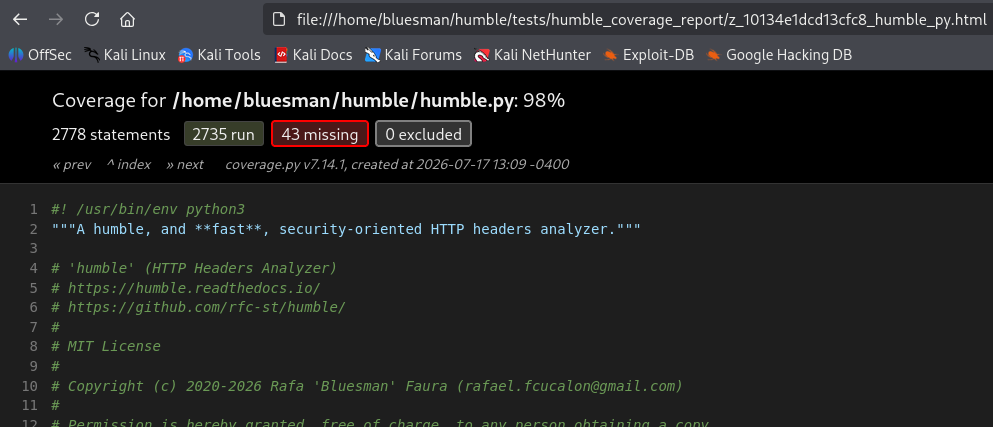
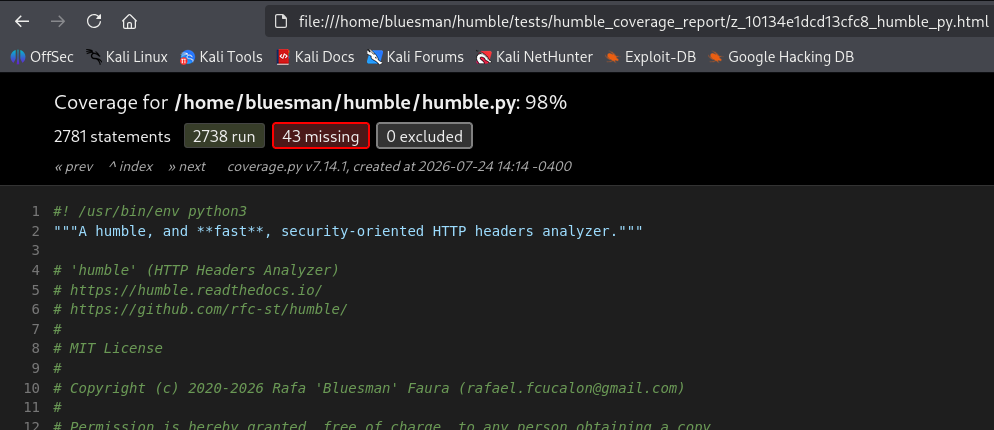
Feature: Allow multiple output formats
https://github.com/rfc-st/humble/issues/41

'-o' options now accepts several space-separated formats (e.g. '-o html xml').

diff --git a/humble.py b/humble.py
@@ -79,7 +79,7 @@ cloudflare.com/support/troubleshooting/http-status-codes/cloudflare-5xx-errors\
 Reference/Status/", "https://raw.githubusercontent.com/rfc-st/humble/master/\
 humble.py", "https://github.com/rfc-st/humble")
 current_time = datetime.now().astimezone().strftime("%Y/%m/%d - %H:%M:%S")
-local_version = date.fromisoformat("2026-07-18")
+local_version = date.fromisoformat("2026-07-24")
 BANNER_VERSION = f"{URL_LIST[4]} | v.{local_version}"
 
 # Files, path resolution and system directories
@@ -166,6 +166,7 @@ DTD_CONTENT = """<!ELEMENT analysis (section+)>
 <!ATTLIST item name CDATA #IMPLIED>
 """
 EXPORT_EXTENSIONS = (".csv", ".html", ".json", ".pdf", ".txt", ".xlsx", ".xml")
+EXPORT_ORDER = ("txt", "csv", "json", "xlsx", "xml", "html", "pdf")
 GRADE_ORDER = ["E", "D", "C", "B", "A", "A+"]
 HTML_PRE_ARTIFACT = "<pre>/pre>'"
 HTML_TAGS = (
@@ -204,7 +205,7 @@ HTTP_SCHEMES = ("http:", "https:")
 HTTP_SCHEMES_S = ("http", "https")
 LENGTH_BOUNDS = (5, 7, 16, 32, 102, 2)
 SECONDS_BOUNDS = (86400, 31536000)
-SLICE_INT = (30, 43, 25, 24, -4, -5, 46, 31, 6, 21, 10, 4, 20)
+SLICE_INT = (30, 43, 25, 24, -4, -5, 46, 31, 6, 21, 10, 4, 21)
 STYLE = (
     Style.BRIGHT, f"{Style.BRIGHT}{Fore.RED}", Fore.CYAN, Style.NORMAL,
     Style.RESET_ALL, Fore.RESET, "(humble_pdf_style)",
@@ -1537,8 +1538,11 @@ def print_export_path(filename, reliable, *, export_all=False):
         return
     export_path = Path(filename).resolve()
     if export_all:
-        all_reports = print_detail_s("[all_reports]").lstrip()
-        msg = f"{all_reports} '{export_path.parent}'."
+        detail_id = ("[all_formats]"
+                     if len(args.output) == len(EXPORT_ORDER)
+                     else "[requested_formats]")
+        bulk_reports = print_detail_s(detail_id).lstrip()
+        msg = f"{bulk_reports} '{export_path.parent}'."
     else:
         single_report = print_detail_s("[report]").lstrip()
         msg = f"{single_report} '{export_path}'."
@@ -1571,7 +1575,7 @@ def print_general_info(reliable, export_filename, headers_skipped, skip_set):
     if not args.output:
         delete_lines(reliable=False) if reliable else delete_lines()
         print(f"\n{BANNER}\n ({BANNER_VERSION})")
-    elif args.output != "pdf":
+    elif single_output() != "pdf":
         humble_desc = get_detail("[humble_desc]", replace=True)
         print(f"\n\n{humble_desc}\n{BANNER_VERSION}\n")
     print_basic_info(export_filename)
@@ -1614,7 +1618,8 @@ def print_basic_info(export_filename):
     Date, time, URL, response details, User-Agent (`-ua` option), input
     file (`-if` option) and exported filename (`-o` option).
     """
-    print(end="\n\n" if args.output in ("html", "pdf", None) else "")
+    print(end="\n\n" if single_output() in ("html", "pdf")
+      or args.output is None else "")
     print_detail_r("[0section]")
     print_detail_l("[analysis_date]")
     print(f" {current_time}")
@@ -1681,7 +1686,7 @@ def print_response_headers():
         print_nosec_headers(enabled=False)
         print("\n")
         return
-    pdf_style = STYLE[6] if args.output == "pdf" else ""
+    pdf_style = STYLE[6] if single_output() == "pdf" else ""
     for key, value in sorted(headers.items()):
         print(f" {pdf_style}{key}:", value) if args.output else \
             print(f" {STYLE[2]}{key}:", value)
@@ -1898,7 +1903,7 @@ def print_enabled_headers(args, exp_s, header, headers_d):
 
     Source: `additional/security.txt`.
     """
-    prefix = STYLE[8] if args.output in ("html", "pdf") else ""
+    prefix = STYLE[8] if single_output() in ("html", "pdf") else ""
     header_display = f"{prefix}{exp_s}{header}"
     if not args.output:
         header_display = f"{STYLE[7]}{header_display}{STYLE[5]}"[18:]
@@ -2009,7 +2014,7 @@ def print_browser_compatibility(compat_headers):
     ??? note
         References provided by [Can I use](https://caniuse.com/){:target="_blank"}.
     """
-    style_blanks = "  " if args.output == "html" else " "
+    style_blanks = "  " if single_output() == "html" else " "
     for key in compat_headers:
         styled_header = key if args.output else f"{STYLE[2]}{key}{STYLE[5]}"
         csp_key = "contentsecuritypolicy2" if key == "Content-Security-Policy"\
@@ -2225,38 +2230,53 @@ def print_unsupported_headers(unsupported_headers):
 
 
 def check_export_scope():
-    """Determine the scope of the export process based on the `-o` option.
+    """Dispatch the export according to the number of requested formats.
 
-    If the value of that option is not `all` (e.g., `csv`), it proceeds to
-    export the analysis in that format; otherwise, it exports it to all
-    supported formats and terminate execution.
+    A single format uses the direct exporters; several formats reuse
+    the batch pipeline, processed in `EXPORT_ORDER`.
     """
-    if args.output != "all":
+    if single_output():
         check_output_format(final_filename, reliable, tmp_filename)
     else:
-        export_all_formats(final_filename, tmp_filename)
+        export_selected_formats(final_filename, tmp_filename)
 
 
-def export_all_formats(final_filename, tmp_filename):
-    """Export the analysis to all supported formats.
+def export_selected_formats(final_filename, tmp_filename):
+    """Export the analysis to every requested format, in canonical order.
 
-    This function sequentially invokes the functions for CSV, XLSX, JSON,
-    XML, HTML, PDF, and TXT exports. It passes the `export_all` flag where
-    applicable to ensure consistent processing and terminate execution after
-    displaying the final export path.
+    Sequentially invokes the export functions for the formats requested
+    via the `-o` option, following `EXPORT_ORDER` (TXT, CSV, JSON, XLSX,
+    XML, HTML and PDF) regardless of the order they were supplied in. It
+    passes the `export_all` flag where applicable to ensure consistent
+    processing, restores the temporary file to its pristine content after
+    the HTML and PDF passes (which mutate it), and terminates execution
+    after displaying the final export path.
 
-    Related to `-o all` option.
+    Related to `-o` option; `all` is equivalent to requesting every
+    format.
     """
-    generate_csv(final_filename, tmp_filename, export_all=True)
-    if args.brief:
-        generate_json(final_filename, tmp_filename, export_all=True)
-    else:
-        generate_json_detailed(final_filename, tmp_filename, export_all=True)
-    generate_xml(final_filename, tmp_filename, export_all=True)
-    generate_csv(final_filename, tmp_filename, to_xlsx=True, export_all=True)
-    normalize_htmlpdf_all_export("html", tmp_filename, final_filename)
-    normalize_htmlpdf_all_export("pdf", tmp_filename)
-    normalize_txt_all_export(tmp_filename)
+    pristine = Path(tmp_filename).read_text(encoding="utf-8")
+    actions = {
+        "txt": lambda: normalize_txt_all_export(tmp_filename),
+        "csv": lambda: generate_csv(final_filename, tmp_filename,
+                                    export_all=True),
+        "json": lambda: (generate_json if args.brief else
+                         generate_json_detailed)(final_filename,
+                                                 tmp_filename,
+                                                 export_all=True),
+        "xlsx": lambda: generate_csv(final_filename, tmp_filename,
+                                     to_xlsx=True, export_all=True),
+        "xml": lambda: generate_xml(final_filename, tmp_filename,
+                                    export_all=True),
+        "html": lambda: normalize_htmlpdf_all_export("html", tmp_filename,
+                                                     final_filename),
+        "pdf": lambda: normalize_htmlpdf_all_export("pdf", tmp_filename),
+    }
+    for fmt in args.output:
+        actions[fmt]()
+        if fmt in ("html", "pdf"):
+            Path(tmp_filename).write_text(pristine, encoding="utf-8")
+    Path(tmp_filename).unlink()
     print_export_path(final_filename, reliable, export_all=True)
     sys.exit(0)
 
@@ -2354,15 +2374,15 @@ def fix_pdf_all_export(tmp_filename):
 def normalize_txt_all_export(tmp_filename):
     """Apply format to section and lines to the TXT file.
 
-    Related to `-o all` option.
+    Writes the normalized content to the final TXT file, leaving the
+    temporary file intact for later formats; related to `-o` option.
     """
     txt_path = Path(tmp_filename)
     identity = txt_path.stem[:-1]
-    txt_content = (txt_path.read_text(encoding="utf-8")
-                   .replace(STYLE[6], "").replace(STYLE[8], "")
-                   .replace(f"{identity}.pdf", f"{identity}.txt"))
-    txt_path.write_text(txt_content, encoding="utf-8")
-    txt_path.rename(txt_path.with_name(f"{identity}.txt"))
+    txt_content = txt_path.read_text(encoding="utf-8").replace(
+        f"{identity}.all", f"{identity}.txt")
+    txt_path.with_name(f"{identity}.txt").write_text(txt_content,
+                                                     encoding="utf-8")
 
 
 def finalize_export(final_filename, temp_filename, file_extension, export_all):
@@ -2423,7 +2443,7 @@ def check_output_format(final_filename, reliable, tmp_filename):
         "html": lambda: export_html_file(final_filename, tmp_filename),
         "pdf": lambda: export_pdf_file(tmp_filename),
     }
-    exporters[args.output]()
+    exporters[single_output()]()
 
 
 def check_cicd(analysis_grade, threshold_grade):
@@ -4128,7 +4148,7 @@ def get_tmp_file(args, export_date):
 
     Related to `-o` option.
     """
-    file_ext = ".txt" if args.output == "txt" else "t.txt"
+    file_ext = ".txt" if single_output() == "txt" else "t.txt"
     if args.output_file:
         name_part = normalize_output_file(args.output_file)
         tmp_file = f"{name_part}{file_ext}"
@@ -4352,9 +4372,33 @@ def process_http_response(r, exception, status_code, reliable, body):
     return headers, status_code, reliable, body, is_html, r.url, len(r.history)
 
 
+class HumbleHelpFormatter(RawDescriptionHelpFormatter):
+    """Display a single metavar for multi-value options ('-o')."""
+
+    def _format_args(self, action, default_metavar):
+        if action.nargs == "+":
+            get_metavar = self._metavar_formatter(action, default_metavar)
+            return get_metavar(1)[0]
+        return super()._format_args(action, default_metavar)
+
+
 def custom_help_formatter(prog):
-    """Format help output with an increased character limit per line."""
-    return RawDescriptionHelpFormatter(prog, max_help_position=43)
+    """Return the custom formatter for the argparse help."""
+    return HumbleHelpFormatter(prog, max_help_position=43)
+
+
+def single_output():
+    """Return the requested export format, if exactly one; else None.
+
+    Multi-format exports behave like the former `-o all`: no print-time
+    styling, formatting is applied later per format.
+    """
+    return args.output[0] if args.output and len(args.output) == 1 else None
+
+
+def output_extension():
+    """Return the filename extension token ('all' if multi-format)."""
+    return single_output() or "all"
 
 
 # Main functionality for argparse
@@ -4398,10 +4442,11 @@ language for displaying analysis, errors and messages; if omitted, will be \
 printed in English")
 parser.add_argument("-lic", dest="license", action="store_true", help="Print \
 the license for 'humble', along with permissions, limitations and conditions")
-parser.add_argument("-o", dest="output", choices=["all", "csv", "html", "json",
-                                                  "pdf", "txt", "xlsx", "xml"],
-                    help="Export the analysis to the specified format; 'all' \
-will export to all formats")
+parser.add_argument("-o", dest="output", nargs="+",
+                    choices=["all", "csv", "html", "json", "pdf", "txt",
+                             "xlsx", "xml"],
+                    help="Export the analysis to the specified formats \
+(separated by spaces); 'all' will export to all formats")
 parser.add_argument("-of", dest="output_file", type=str, help="Exports \
 analysis to 'OUTPUT_FILE'; if omitted the default filename of the parameter \
 '-o' will be used")
@@ -4425,6 +4470,10 @@ parser.add_argument("-v", "--version", action="store_true", help="Checks for \
 updates at https://github.com/rfc-st/humble")
 
 args = parser.parse_args(args=None if sys.argv[1:] else ["--help"])
+if args.output:
+    requested = set(args.output)
+    formats = EXPORT_ORDER if "all" in requested else requested
+    args.output = [fmt for fmt in EXPORT_ORDER if fmt in formats]
 
 # Multilingual messages and Python version checking
 l10n_main = get_l10n_content()
@@ -4446,11 +4495,11 @@ if URL is not None:
     check_russian_scope()
 
 if "-cicd" in sys.argv:
-    args.output = "txt"
+    args.output = ["txt"]
 
 if "-c" in sys.argv:
     args.brief = False
-    args.output = "txt"
+    args.output = ["txt"]
     args.user_agent = "1"
 
 if "-if" in sys.argv:
@@ -4577,8 +4626,8 @@ if args.output:
     validate_file_access(tmp_filename, context="export")
     tmp_filename_content = Path(tmp_filename).open("w", encoding="utf8") # noqa: SIM115
     sys.stdout = tmp_filename_content
-    export_slice = SLICE_INT[4] if args.output == "txt" else SLICE_INT[5]
-    export_filename = f"{str(tmp_filename)[:export_slice]}.{args.output}"
+    export_slice = SLICE_INT[4] if single_output() == "txt" else SLICE_INT[5]
+    export_filename = f"{str(tmp_filename)[:export_slice]}.{output_extension()}"
 
 # Section '0. Info & HTTP Response Headers'
 print_general_info(reliable, export_filename, headers_skipped, skip_set)
@@ -5513,7 +5562,7 @@ if "-c" not in sys.argv:
 
 # Export analysis according to the scope (single format or all of them)
 if args.output:
-    final_filename = f"{str(tmp_filename)[:-5]}.{args.output}"
+    final_filename = f"{str(tmp_filename)[:-5]}.{output_extension()}"
     sys.stdout = orig_stdout
     tmp_filename_content.close()
     check_export_scope()

diff --git a/tests/test_humble.py b/tests/test_humble.py
@@ -193,6 +193,8 @@ TEST_CFGS = {
                                        "Analysis"),
     "test_export_json_l10n": (["-u", TEST_URLS[9], "-o", "json", "-l", "es"],
                               "Análisis"),
+    "test_export_multiple_formats": (["-u", TEST_URLS[9], "-o", "html", "json"],
+                                     "requested"),
     "test_export_no_security_headers": (["-u", TEST_URLS[9], "-if",
                                          PATHS["NO_SEC_HEADERS"], "-o", "txt"],
                                         "Analysis"),
@@ -781,7 +783,7 @@ def cleanup_analysis_history():
         fsync(original_file.fileno())
 
 
-local_version = date.fromisoformat("2026-07-18")
+local_version = date.fromisoformat("2026-07-24")
 parser = ArgumentParser(
     formatter_class=lambda prog: RawDescriptionHelpFormatter(
         prog, max_help_position=34,

diff --git a/README.md b/README.md
@@ -6,7 +6,7 @@
 <a target="_blank" href="https://devguide.python.org/versions/" title="Minimum Python version required to run this tool"><img src="https://img.shields.io/badge/Python-%3E%3D3.11-blue?labelColor=343b41"></a>
 <a target="_blank" href="LICENSE" title="License of this tool"><img src="https://img.shields.io/badge/License-MIT-blue.svg?labelColor=343b41"></a>
 <a target="_blank" href="https://github.com/rfc-st/humble/releases" title="Latest release of this tool"><img src="https://img.shields.io/github/v/release/rfc-st/humble?display_name=release&label=Latest%20Release&labelColor=343b41"></a>
-<a target="_blank" href="https://github.com/rfc-st/humble/commits/master" title="Latest commit of this tool"><img src="https://img.shields.io/badge/Latest_Commit-2026--07--18-blue.svg?labelColor=343b41"></a>
+<a target="_blank" href="https://github.com/rfc-st/humble/commits/master" title="Latest commit of this tool"><img src="https://img.shields.io/badge/Latest_Commit-2026--07--24-blue.svg?labelColor=343b41"></a>
 <a target="_blank" href="https://pkg.kali.org/pkg/humble" title="Official tool in Kali Linux"><img src="https://img.shields.io/badge/Kali%20Linux-Tool-blue?labelColor=343b41"></a>
 <br />
 <a target="_blank" href="#" title="Featured on:"><img src="https://img.shields.io/badge/Featured%20on:-343b41"></a>
@@ -380,7 +380,7 @@ $ sudo apt install --only-upgrade humble
 usage: humble.py [-h] [-a] [-b] [-c] [-cicd [GRADE]] [-df] [-e [TESTSSL_PATH]] [-f [FINGERPRINT_TERM]] [-g] [-grd] [-H REQUEST_HEADER] [-if INPUT_FILE] [-l {es}] [-lic]
                  [-o {all,csv,html,json,pdf,txt,xlsx,xml}] [-of OUTPUT_FILE] [-op OUTPUT_PATH] [-p PROXY] [-r] [-s [SKIP_HEADERS ...]] [-u URL] [-ua USER_AGENT] [-v]
 
-'humble' (HTTP Headers Analyzer) | https://github.com/rfc-st/humble | v.2026-07-04
+'humble' (HTTP Headers Analyzer) | https://github.com/rfc-st/humble | v.2026-07-24
 
 options:
   -h, --help                               show this help message and exit
@@ -397,7 +397,7 @@ options:
   -if INPUT_FILE                           Analyzes 'INPUT_FILE': curl's '--dump-header' file or HTTP Archive (HAR) file
   -l {es}                                  Defines the language for displaying analysis, errors and messages; if omitted, will be printed in English
   -lic                                     Print the license for 'humble', along with permissions, limitations and conditions
-  -o {all,csv,html,json,pdf,txt,xlsx,xml}  Export the analysis to the specified format; 'all' will export to all formats
+  -o {all,csv,html,json,pdf,txt,xlsx,xml}  Export the analysis to the specified formats (separated by spaces); 'all' will export to all formats
   -of OUTPUT_FILE                          Exports analysis to 'OUTPUT_FILE'; if omitted the default filename of the parameter '-o' will be used
   -op OUTPUT_PATH                          Exports analysis to 'OUTPUT_PATH'; must be absolute. If omitted the PATH of 'humble.py' will be used
   -p PROXY                                 Use a proxy for the analysis. E.g., 'http://127.0.0.1:8080'. If no port is specified '8080' will be used
@@ -415,6 +415,7 @@ examples:
   -u URL -l es                         Analyzes the URL and prints (in Spanish) detailed findings
   -u URL -o pdf                        Analyzes the URL and exports detailed findings to PDF format
   -u URL -o html -of test              Analyzes the URL and exports detailed findings to HTML format and 'test' filename
+  -u URL -o html json                  Analyzes the URL and exports detailed findings to HTML and JSON formats
   -u URL -o pdf -op D:/Tests           Analyzes the URL and exports detailed findings to PDF format and 'D:/Tests' path
   -u URL -p http://127.0.0.1:8080      Analyzes the URL using 'http://127.0.0.1:8080' as the proxy
   -u URL -r                            Analyzes the URL and prints detailed findings along with HTTP response headers

diff --git a/docs/index.md b/docs/index.md
@@ -81,6 +81,6 @@ And a special greeting to Alba, Aleix, Alejandro (x3), Álvaro, Ana, Carlos (x3)
 <aside class="md-source-file">
 <span class="md-source-file__fact">
 Last updated on
-<span class="git-revision-date-localized-plugin git-revision-date-localized-plugin-datetime"><em>July 18, 2026</em></span>
+<span class="git-revision-date-localized-plugin git-revision-date-localized-plugin-datetime"><em>July 24, 2026</em></span>
 </span>
 </aside>

diff --git a/docs/unit_tests.md b/docs/unit_tests.md
@@ -22,6 +22,6 @@ Unit test descriptions are retrieved via `print_results` and `get_detail` functi
 <aside class="md-source-file">
 <span class="md-source-file__fact">
 Last updated on
-<span class="git-revision-date-localized-plugin git-revision-date-localized-plugin-datetime"><em>July 18, 2026</em></span>
+<span class="git-revision-date-localized-plugin git-revision-date-localized-plugin-datetime"><em>July 24, 2026</em></span>
 </span>
 </aside>

diff --git a/docs/references.md b/docs/references.md
@@ -5,6 +5,6 @@
 <aside class="md-source-file">
 <span class="md-source-file__fact">
 Last updated on
-<span class="git-revision-date-localized-plugin git-revision-date-localized-plugin-datetime"><em>July 18, 2026</em></span>
+<span class="git-revision-date-localized-plugin git-revision-date-localized-plugin-datetime"><em>July 24, 2026</em></span>
 </span>
 </aside>
